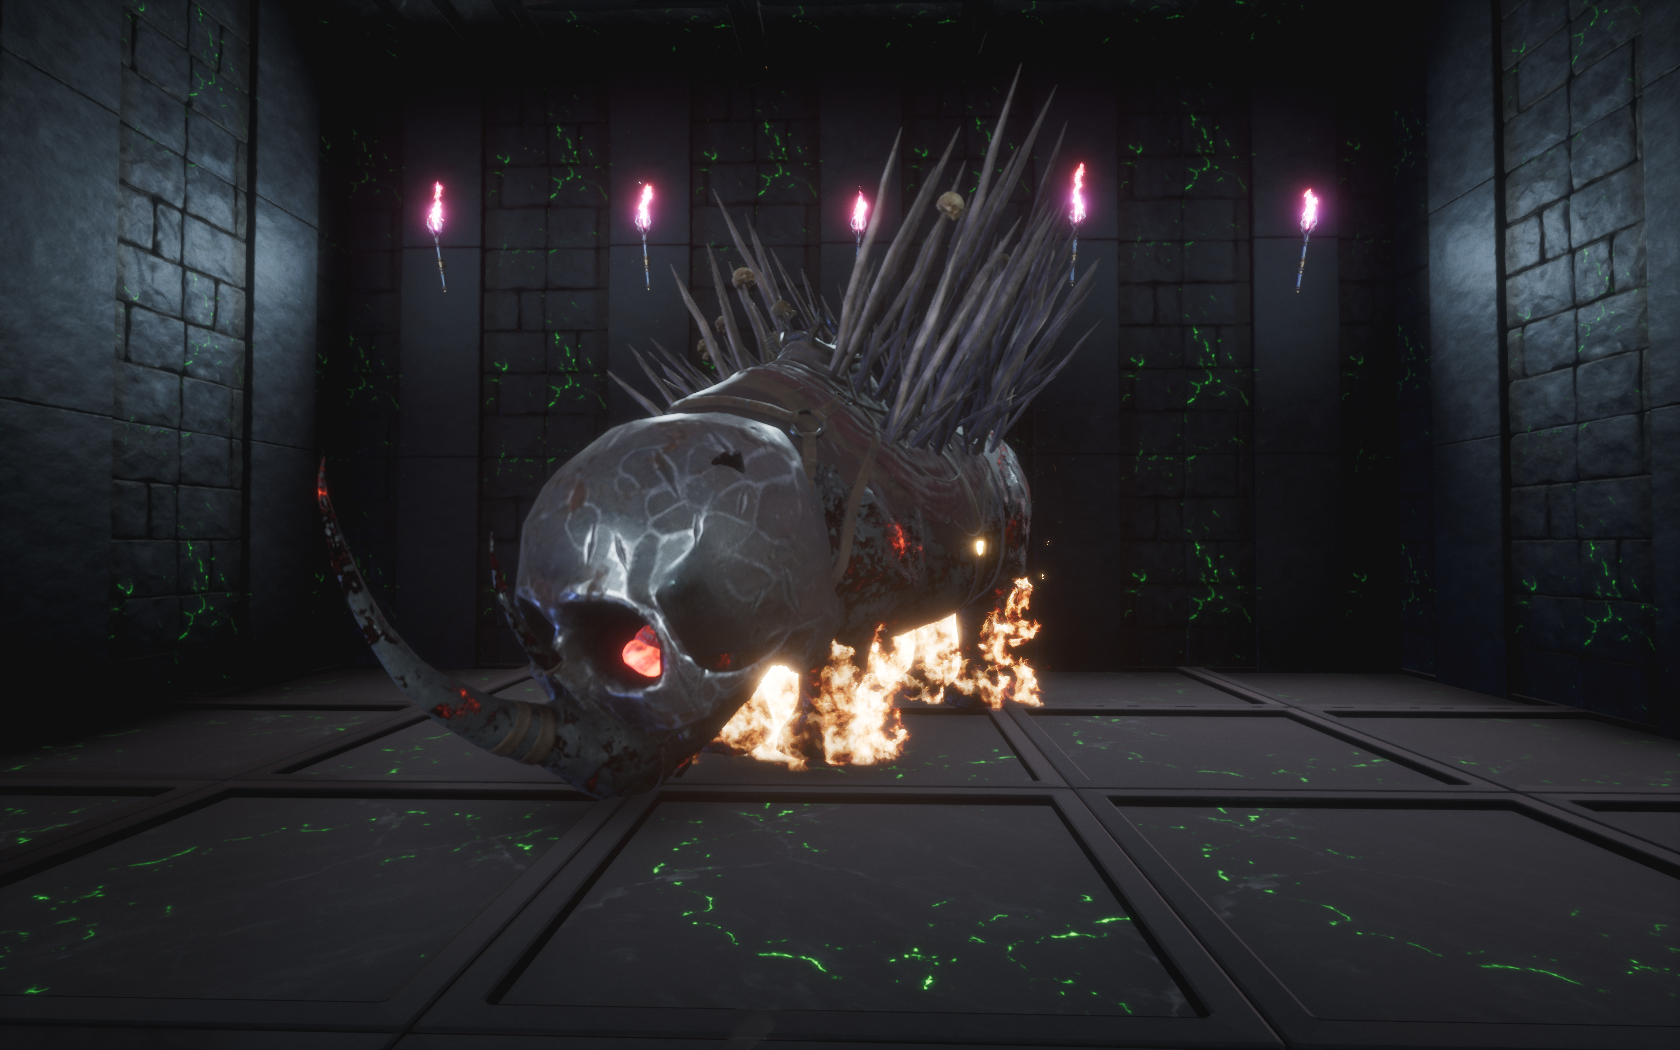
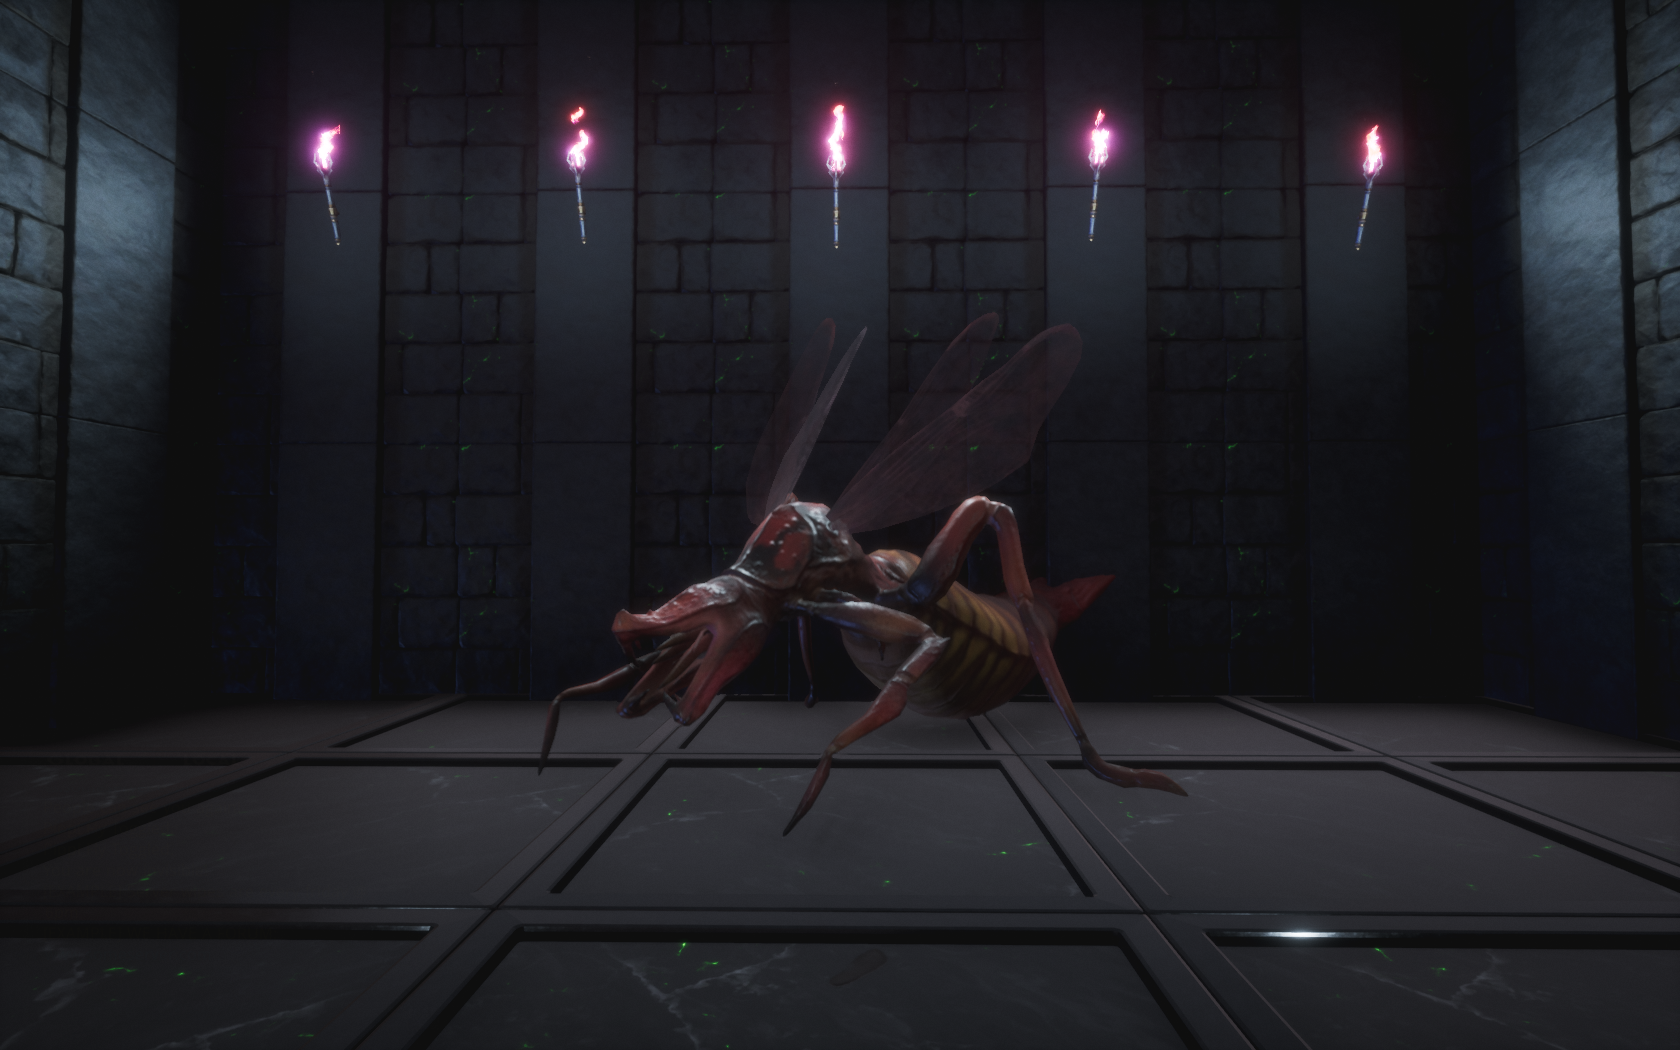
montarias

diff --git a/montarias.html b/montarias.html
@@ -99,6 +99,32 @@ Holiday Conan
     </div>
     </div>
 	
+	<div class="post">
+        <a class="popup-img" target="_blank" href="montarias/mont04.png">
+		<img src="montarias/mont04.png" alt="" class="post-img"></a>
+        <div class="post-content">
+        <h2>Camel Mount | 30BG</h2>
+    </div>
+    </div>
+	
+	<div class="post">
+        <a class="popup-img" target="_blank" href="montarias/mont05.png">
+		<img src="montarias/mont05.png" alt="" class="post-img"></a>
+        <div class="post-content">
+        <h2>Sand Reaper Queen Mount | 30BG</h2>
+    </div>
+    </div>
+	
+	<div class="post">
+        <a class="popup-img" target="_blank" href="montarias/mont06.png">
+		<img src="montarias/mont06.png" alt="" class="post-img"></a>
+        <div class="post-content">
+        <h2>Death Rhino Mount | 30BG</h2>
+    </div>
+    </div>
+	
+	
+	
 	
 
 
@@ -109,27 +135,6 @@ Holiday Conan
             alt="" class="post-img"></a>
         <div class="post-content">
           <h3>Bluntpow Bear Mount | 30LC</h3>
-        </div>
-      </div>
-
-      <div class="post">
-        <a class="popup-img" target="_blank"
-          href="montarias/Camel Mount.png"><img
-            src="montarias/Camel Mount.png"
-            alt="" class="post-img"></a>
-        <div class="post-content">
-          <h3>Camel Mount | 25LC</h3>
-        </div>
-      </div>
-
-
-      <div class="post">
-        <a class="popup-img" target="_blank"
-          href="montarias/Death Rhino Mount.png"><img
-            src="montarias/Death Rhino Mount.png"
-            alt="" class="post-img"></a>
-        <div class="post-content">
-          <h3>Death Rhino Mount | 30LC</h3>
         </div>
       </div>
 
@@ -246,16 +251,6 @@ Holiday Conan
             alt="" class="post-img"></a>
         <div class="post-content">
           <h3>Rock Nose King Molten Mount | 30LC</h3>
-        </div>
-      </div>
-
-      <div class="post">
-        <a class="popup-img" target="_blank"
-          href="montarias/Sand Reaper Queen Mount.png"><img
-            src="montarias/Sand Reaper Queen Mount.png"
-            alt="" class="post-img"></a>
-        <div class="post-content">
-          <h3>Sand Reaper Queen Mount | 30LC</h3>
         </div>
       </div>
 
@@ -444,7 +439,7 @@ Holiday Conan
             src="montarias/Dragon.png"
             alt="" class="post-img"></a>
         <div class="post-content">
-          <h3>Dragon | 100LC</h3>
+          <h3>Dragon | 80LC</h3>
         </div>
       </div>
 
@@ -455,7 +450,7 @@ Holiday Conan
             src="montarias/Griffon.png"
             alt="" class="post-img"></a>
         <div class="post-content">
-          <h3>Griffon | 60LC</h3>
+          <h3>Griffon | 50LC</h3>
         </div>
       </div>
  
@@ -476,7 +471,7 @@ Holiday Conan
             src="montarias/Dragon.png"
             alt="" class="post-img"></a>
         <div class="post-content">
-          <h3>Dragon Fly | 270LC</h3>
+          <h3>Dragon Fly | 200LC</h3>
         </div>
       </div>
 
@@ -486,7 +481,7 @@ Holiday Conan
             src="montarias/Griffon.png"
             alt="" class="post-img"></a>
         <div class="post-content">
-          <h3>Griffon Fly | 180LC</h3>
+          <h3>Griffon Fly | 150LC</h3>
         </div>
       </div>
 
@@ -496,7 +491,7 @@ Holiday Conan
             src="montarias/Mont1.png"
             alt="" class="post-img"></a>
         <div class="post-content">
-          <h3>Nova</h3>
+          <h3>| 150BG</h3>
         </div>
       </div>
  
